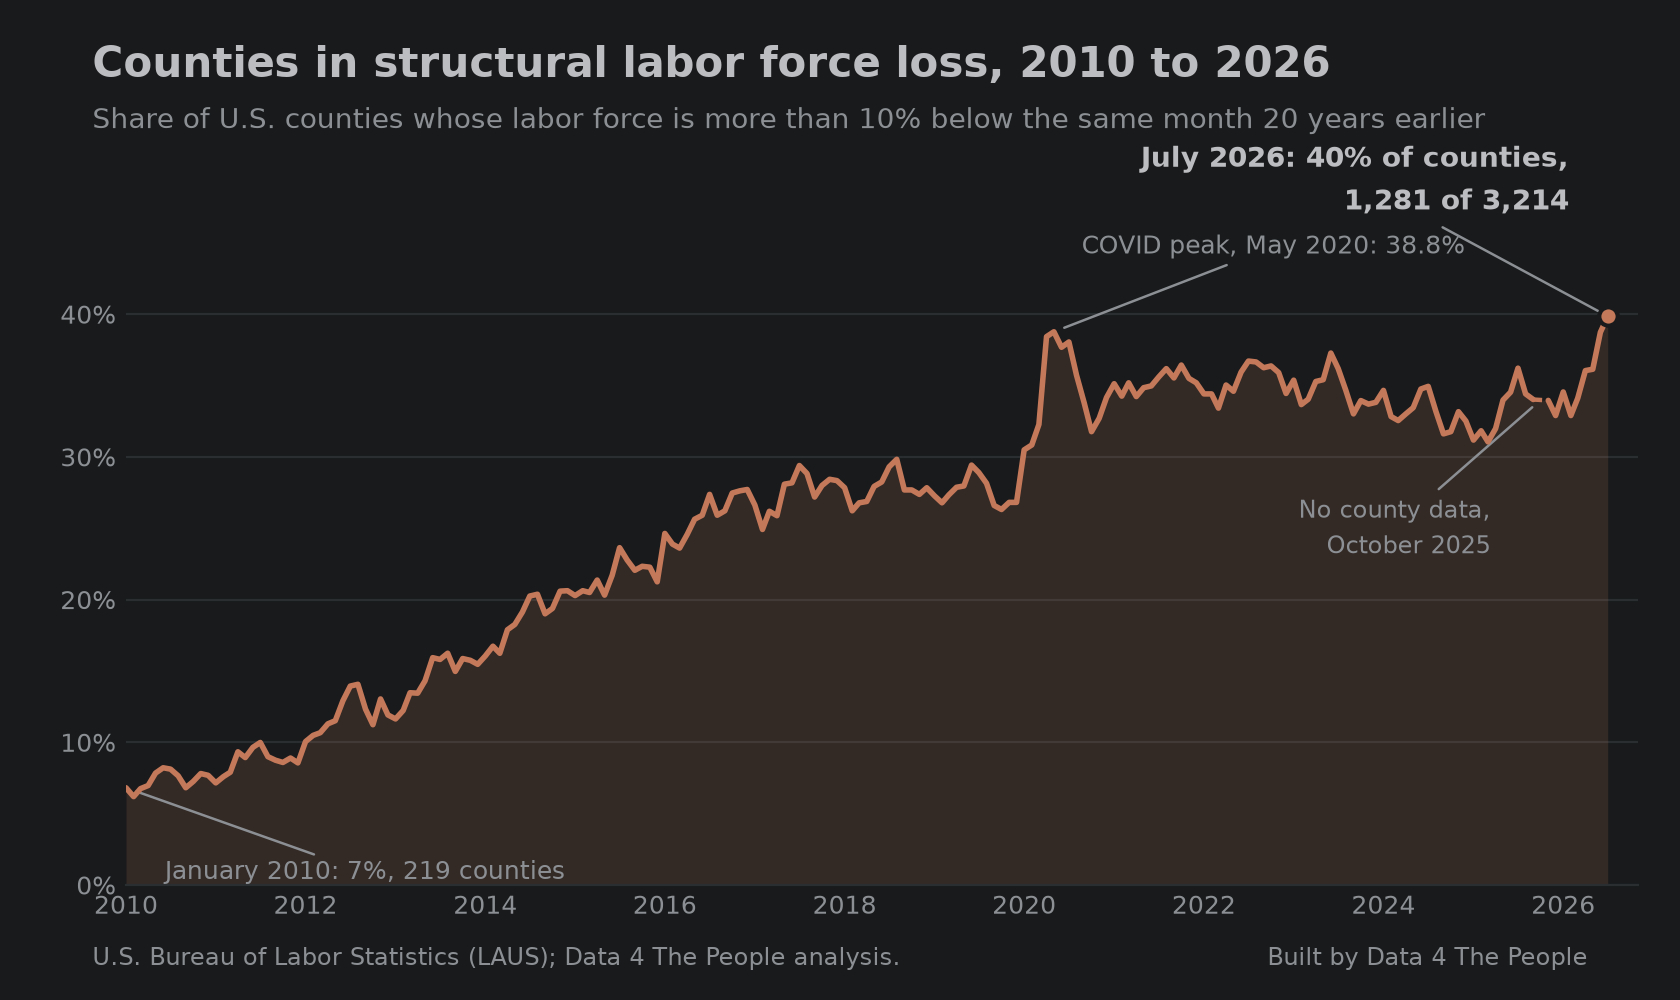
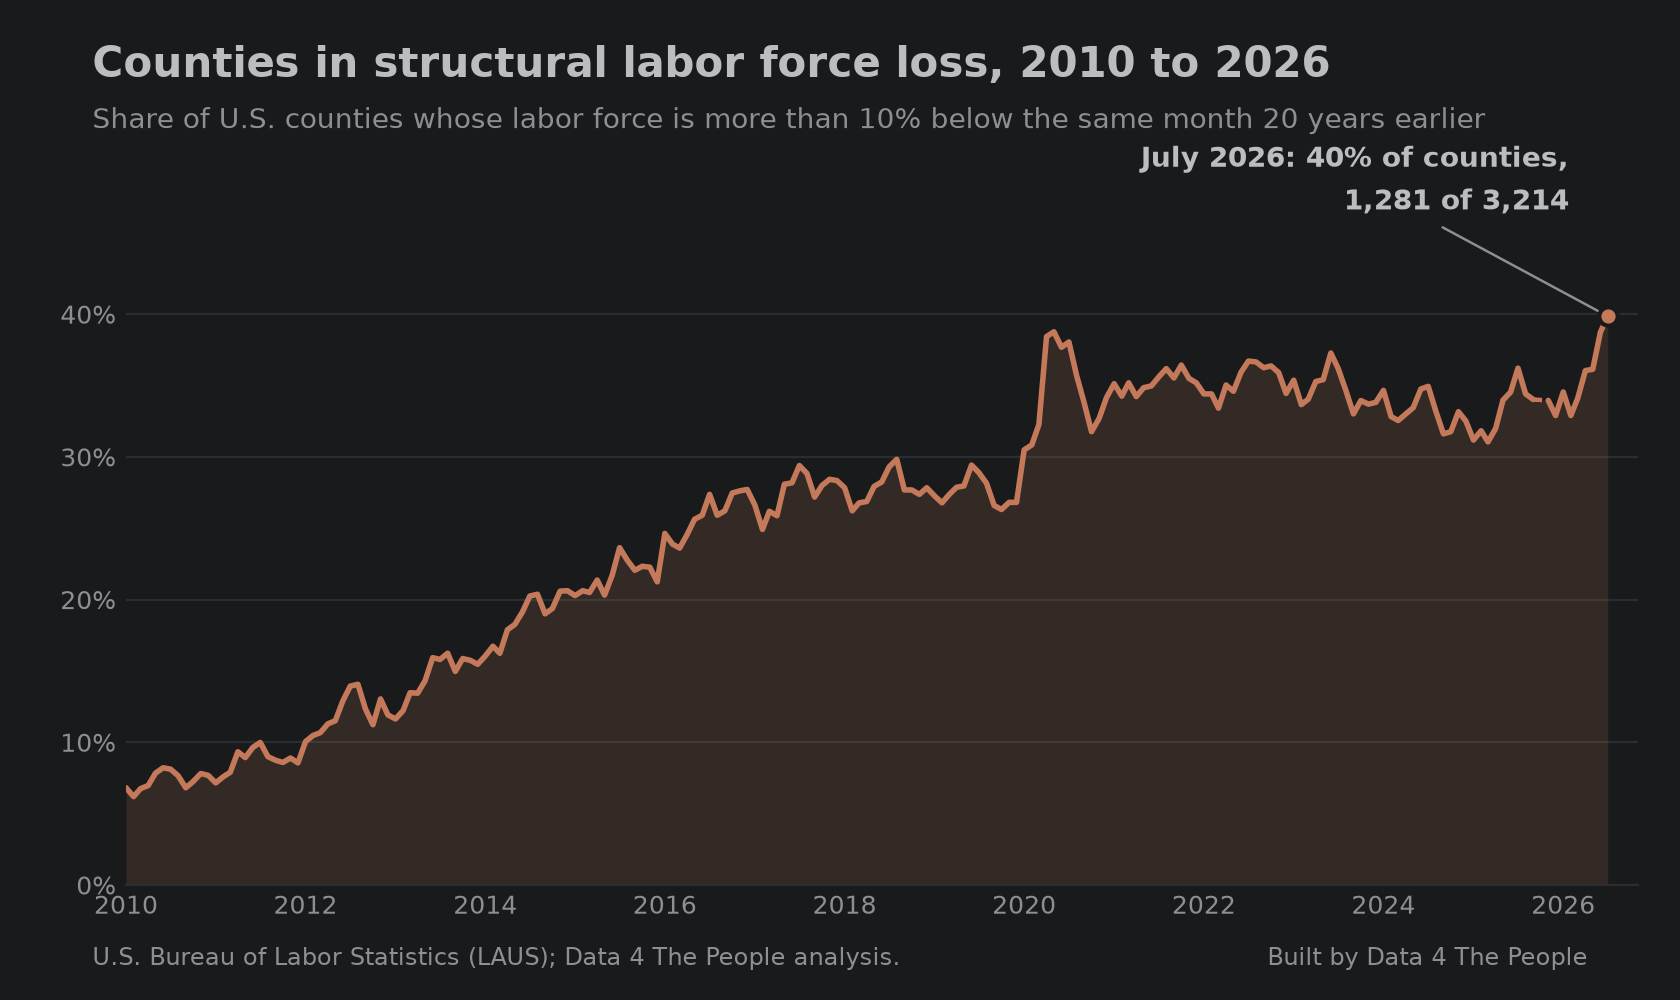
five-takeaways-labor-force-decline: hero keeps only the July 2026 call-out
Claude-Session: https://claude.ai/code/session_018g9hNMFwksQ5waKYLK1hKL

diff --git a/scripts/chart_structural_loss.py b/scripts/chart_structural_loss.py
@@ -35,7 +35,7 @@ def series() -> pd.DataFrame:
     return g.reindex(pd.date_range(g.index.min(), g.index.max(), freq="MS"))   # gap stays a gap
 
 
-def render(out: Path) -> Path:
+def render(out: Path, minimal: bool = False) -> Path:
     g = series()
     first, last = g.dropna().iloc[0], g.dropna().iloc[-1]
     first_d, last_d = g.dropna().index[0], g.dropna().index[-1]
@@ -62,12 +62,25 @@ def render(out: Path) -> Path:
     ax.spines["bottom"].set_color(GRID)
     ax.tick_params(colors=MUTED, labelsize=9, length=0)
 
+    fig.text(0.055, 0.955, "Counties in structural labor force loss, 2010 to 2026",
+             color=INK, fontsize=15, fontweight="bold", va="top")
+    fig.text(0.055, 0.893,
+             "Share of U.S. counties whose labor force is more than 10% below the same month 20 years earlier",
+             color=MUTED, fontsize=10, va="top")
+    fig.text(0.055, 0.035, SOURCE, color=MUTED, fontsize=8.5)
+    fig.text(0.945, 0.035, "Built by Data 4 The People", color=MUTED, fontsize=8.5, ha="right")
+    fig.subplots_adjust(left=0.075, right=0.975, top=0.80, bottom=0.115)
+
     arrow = dict(arrowstyle="-", color=MUTED, linewidth=0.9, shrinkA=0, shrinkB=4)
     ax.scatter([last_d], [last.share], s=44, color=CORAL, zorder=5, edgecolor=BG, linewidth=1.5)
     ax.annotate(f"July 2026: {last.share:.0f}% of counties,\n{int(last.sl):,} of {int(last.total):,}",
                 xy=(last_d, last.share), xytext=(-14, 34), textcoords="offset points",
                 color=INK, fontsize=10, fontweight="bold", ha="right", va="bottom",
                 linespacing=1.5, arrowprops=arrow)
+    if minimal:                      # hero version: one call-out, nothing else
+        fig.savefig(out, facecolor=BG)
+        print(f"wrote {out} (minimal)")
+        return out
     ax.annotate(f"COVID peak, {covid:%B %Y}: {g.loc[covid, 'share']:.1f}%",
                 xy=(covid, g.loc[covid, "share"]), xytext=(10, 26), textcoords="offset points",
                 color=MUTED, fontsize=9, ha="left", va="bottom", arrowprops=arrow)
@@ -78,15 +91,6 @@ def render(out: Path) -> Path:
                 xy=(pd.Timestamp("2025-10-01"), float(bridged.loc["2025-10-01"])),
                 xytext=(-18, -46), textcoords="offset points", color=MUTED, fontsize=8.5,
                 ha="right", va="center", linespacing=1.4, arrowprops=arrow)
-
-    fig.text(0.055, 0.955, "Counties in structural labor force loss, 2010 to 2026",
-             color=INK, fontsize=15, fontweight="bold", va="top")
-    fig.text(0.055, 0.893,
-             "Share of U.S. counties whose labor force is more than 10% below the same month 20 years earlier",
-             color=MUTED, fontsize=10, va="top")
-    fig.text(0.055, 0.035, SOURCE, color=MUTED, fontsize=8.5)
-    fig.text(0.945, 0.035, "Built by Data 4 The People", color=MUTED, fontsize=8.5, ha="right")
-    fig.subplots_adjust(left=0.075, right=0.975, top=0.80, bottom=0.115)
 
     out.parent.mkdir(parents=True, exist_ok=True)
     fig.savefig(out, facecolor=BG)
@@ -99,7 +103,9 @@ def render(out: Path) -> Path:
 def main() -> None:
     ap = argparse.ArgumentParser(description=__doc__)
     ap.add_argument("--out", type=Path, default=ROOT / "outputs" / "charts" / "01-structural-loss-over-time.png")
-    render(ap.parse_args().out)
+    ap.add_argument("--minimal", action="store_true", help="hero version: only the latest call-out")
+    a = ap.parse_args()
+    render(a.out, a.minimal)
 
 
 if __name__ == "__main__":

diff --git a/posts/five-takeaways-labor-force-decline/POST.md b/posts/five-takeaways-labor-force-decline/POST.md
@@ -7,7 +7,7 @@ prismic_id:
 date: 2026-09-17
 section: Data 4 Thought
 hero: images/five-takeaways-labor-force-decline-hero-1680x1080.png
-hero_alt: Line chart titled Counties in structural labor force loss, 2010 to 2026. It shows the share of U.S. counties whose labor force is more than 10% below the same month 20 years earlier, every month from January 2010 to July 2026. The line rises from 7% of counties, or 219, to 40%, or 1,281 of 3,214, the highest reading on record. It passes the previous peak of 38.8% set in May 2020. A gap is marked where no county data was published in October 2025.
+hero_alt: Line chart titled Counties in structural labor force loss, 2010 to 2026. It shows the share of U.S. counties whose labor force is more than 10% below the same month 20 years earlier, every month from January 2010 to July 2026. The line rises from about 7% of counties to 40%, labeled as 1,281 of 3,214 counties in July 2026, the highest reading on record.
 meta_title:
 description:
 keywords:
